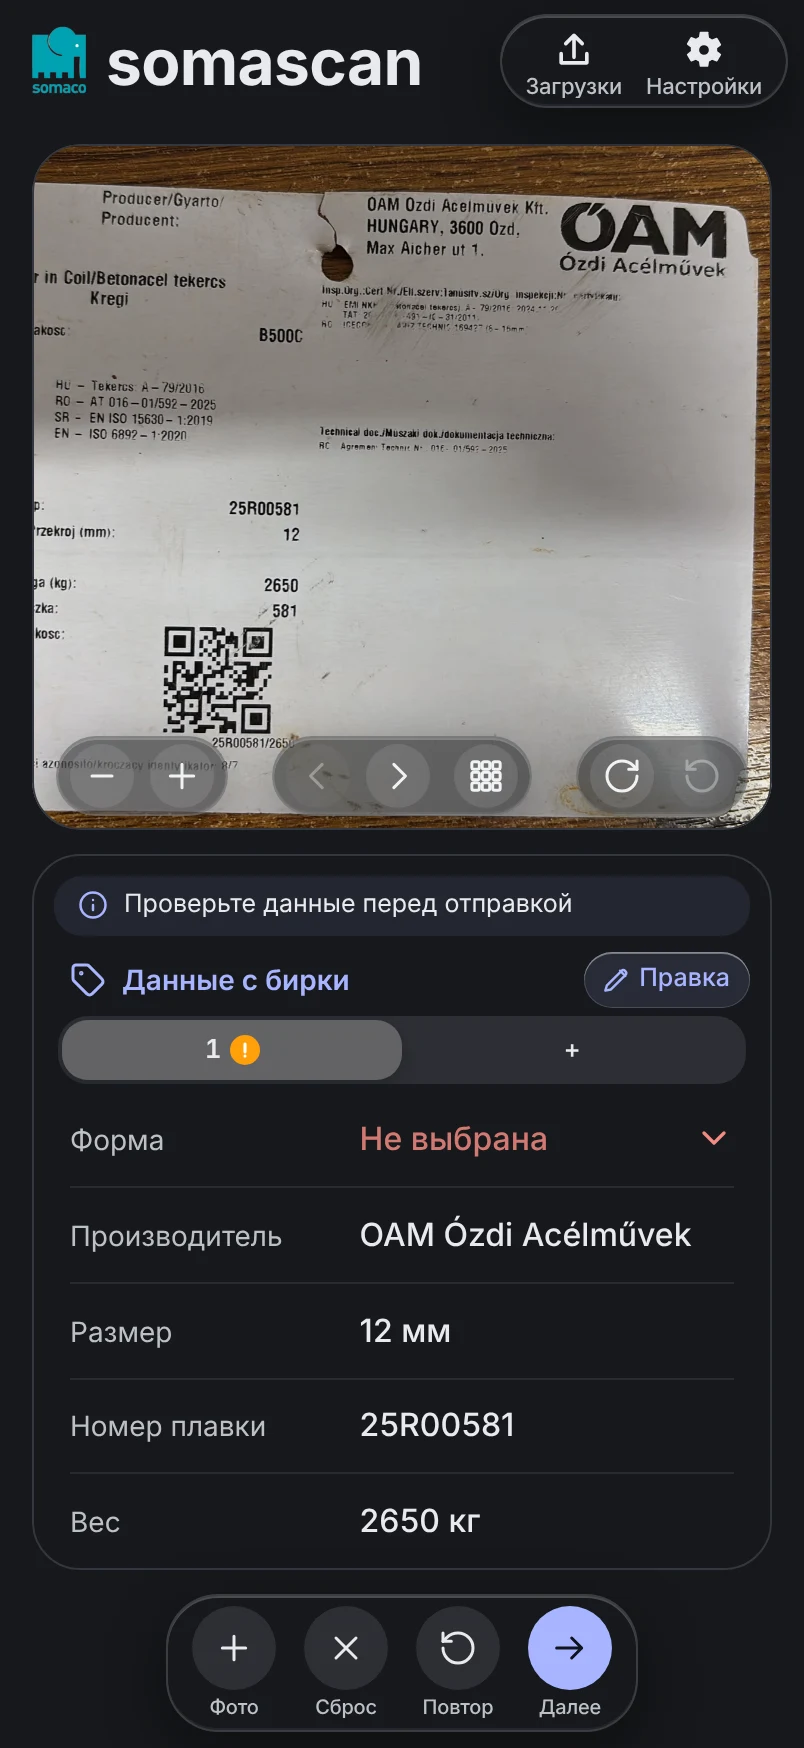
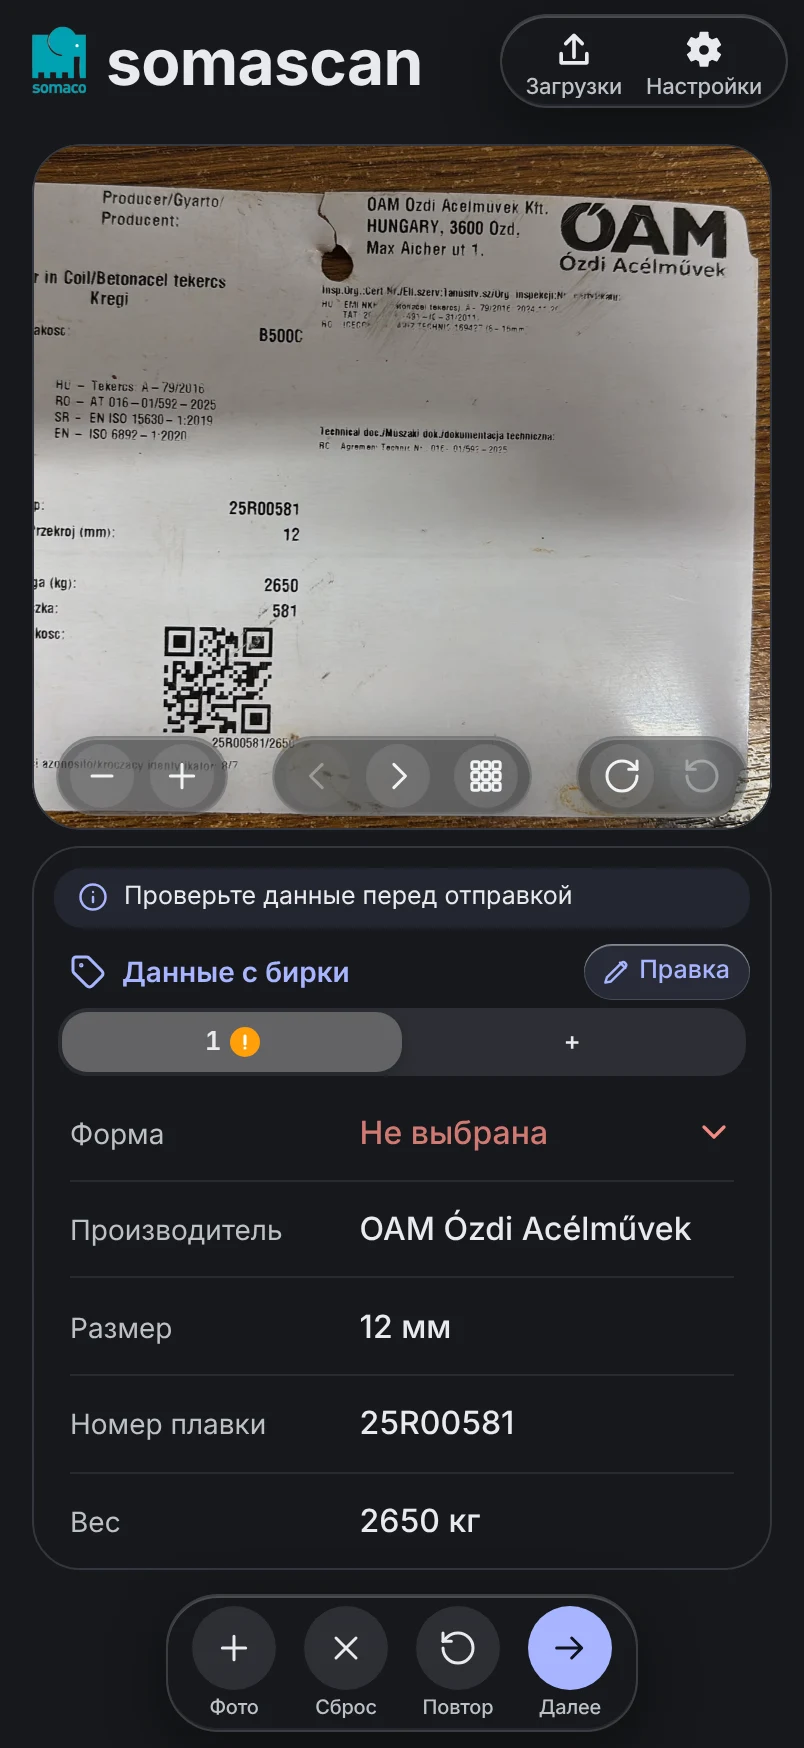
fix & feat: + Grid: switching to the grid no longer makes the screen scroll on a ~910 px tall phone — in view mode the field rows have 8 px padding instead of 11 (a single tag stretches them over the free space anyway) and the result card sits 8 px under the photo block instead of 12 + Grid: a neutr

diff --git a/src/features/workspace/components/PhotoGrid.css b/src/features/workspace/components/PhotoGrid.css
@@ -3,29 +3,23 @@
  * и недоступные ячейки (заполняются только по порядку).
  * Карточка анимирует переход между сеткой и одной биркой (transform от левого верхнего угла).
  *
- * Кольца: выбранная для отправки — тонкое акцентное внутри ячейки, открытая — тонкая бирюзовая обводка снаружи
- * со сдержанным свечением (у выбранной открытой — оба).
+ * Отметки нейтральные: выбранная для отправки — заполненная точка-переключатель и неприглушённая миниатюра, открытая —
+ * контрастная обводка цвета текста с тенью и такой же номер: сразу видно, на какой бирке стоишь.
  */
 
 .photo-grid {
   /*
-   * Ячейки крупные: промежутки между ними и поле у краёв карточки минимальные. Обводка открытой ячейки (2 px вплотную
-   * к ней) помещается в поле, свечение ложится поверх соседних ячеек.
+   * Ячейки крупные: промежутки между ними и поле у краёв карточки минимальные. Обводка открытой ячейки (2,5 px
+   * с зазором 1 px) помещается в поле.
    */
   --photo-grid-gap: 4px;
   /* Ячейки концентричны блоку фото: его скругление минус поле сетки (на iOS блок круглее — и ячейки тоже). */
   --photo-grid-radius: calc(var(--photo-radius) - var(--photo-grid-gap));
-  /* Обводка открытой бирки и рамки, которую ведёт палец (см. ниже): толщина и зазор от ячейки. */
-  --photo-grid-frame-width: 2px;
-  --photo-grid-frame-offset: 0px;
-  --photo-grid-frame-outline: var(--photo-grid-frame-width) solid var(--focus);
-  /*
-   * Свечение открытой ячейки — сдержанное: снаружи короткий приглушённый ореол сразу за обводкой (размах тени =
-   * зазор + толщина), внутри — лёгкая подсветка по краю миниатюры, так что ячейка отмечена и при узких промежутках.
-   */
-  --photo-grid-frame-glow-spread: calc(var(--photo-grid-frame-offset) + var(--photo-grid-frame-width));
-  --photo-grid-frame-glow: 0 0 8px var(--photo-grid-frame-glow-spread) color-mix(in srgb, var(--focus) 35%, transparent);
-  --photo-grid-frame-inner-glow: inset 0 0 6px color-mix(in srgb, var(--focus) 30%, transparent);
+  /* Обводка открытой бирки и рамки, которую ведёт палец (см. ниже): толщина, зазор от ячейки и тень, приподнимающая её. */
+  --photo-grid-frame-width: 2.5px;
+  --photo-grid-frame-offset: 1px;
+  --photo-grid-frame-outline: var(--photo-grid-frame-width) solid var(--text-h);
+  --photo-grid-frame-shadow: 0 4px 14px rgb(0 0 0 / 30%);
   /* Сколько рамка переноса переезжает с ячейки на ячейку. */
   --photo-grid-frame-move: 260ms;
   position: absolute;
@@ -138,34 +132,16 @@
   opacity: .45;
 }
 
-/* Кольца выбора и открытой бирки — поверх миниатюры, под значками. */
-.photo-grid-cell::after {
-  content: '';
-  position: absolute;
-  z-index: 3;
-  inset: 0;
-  border-radius: inherit;
-  pointer-events: none;
-  /* Кольцо выбранной (акцентное) и свечение открытой — внутри ячейки, поверх миниатюры. */
-  box-shadow: var(--photo-grid-cell-ring, 0 0 #0000), var(--photo-grid-cell-glow, 0 0 #0000);
-}
-
-.photo-grid-cell.is-selected {
-  --photo-grid-cell-ring: inset 0 0 0 2px color-mix(in srgb, var(--accent) 80%, transparent);
-}
-
 /*
- * Открытая бирка — фирменный бирюзовый (цвет логотипа): тонкая обводка снаружи ячейки и сдержанное свечение вокруг неё.
- * Не путается ни с акцентным кольцом выбранных (внутри ячейки),
- * ни с цветами состояний. Та же обводка — у рамки, которую ведёт палец (`.photo-grid-frame`).
+ * Открытая бирка — контрастная обводка цвета текста снаружи ячейки (в тёмной теме светлая, в светлой — тёмная)
+ * и тень под ней: ячейка приподнята над соседними. Не путается ни с акцентной точкой выбранных, ни с цветами
+ * состояний. Та же обводка — у рамки, которую ведёт палец (`.photo-grid-frame`).
  */
-/* Над кольцами соседних ячеек: свечение ложится и на них. */
 .photo-grid-cell.is-active {
-  --photo-grid-cell-glow: var(--photo-grid-frame-inner-glow);
   z-index: 4;
   outline: var(--photo-grid-frame-outline);
   outline-offset: var(--photo-grid-frame-offset);
-  box-shadow: var(--photo-grid-frame-glow);
+  box-shadow: var(--photo-grid-frame-shadow);
 }
 
 /*
@@ -181,7 +157,7 @@
   border-radius: var(--photo-grid-radius);
   outline: var(--photo-grid-frame-outline);
   outline-offset: var(--photo-grid-frame-offset);
-  box-shadow: var(--photo-grid-frame-glow), var(--photo-grid-frame-inner-glow);
+  box-shadow: var(--photo-grid-frame-shadow);
 }
 
 .photo-grid.is-dragging .photo-grid-frame {
@@ -189,19 +165,14 @@
 }
 
 .photo-grid.is-dragging .photo-grid-cell.is-active {
-  --photo-grid-cell-glow: 0 0 #0000;
   outline-color: transparent;
   box-shadow: none;
 }
 
 /*
- * Во время перехода между сеткой и одной биркой колец нет: увеличенные вместе с ячейкой втрое, они
- * выглядели бы толстой светящейся рамкой по краю карточки. После перехода кольца проявляются.
+ * Во время перехода между сеткой и одной биркой обводки нет: увеличенная вместе с ячейкой втрое, она
+ * выглядела бы толстой рамкой по краю карточки. После перехода обводка проявляется.
  */
-.photo-grid-cell::after {
-  transition: opacity 200ms ease;
-}
-
 .photo-grid-cell.is-active {
   transition: box-shadow 200ms ease;
 }
@@ -211,18 +182,13 @@
   transition: none;
 }
 
-.photo-card.is-zooming .photo-grid-cell::after {
-  opacity: 0;
-  transition: none;
-}
-
 .photo-card.is-zooming .photo-grid-cell.is-active {
   outline-color: transparent;
   box-shadow: none;
   transition: none;
 }
 
-/* Номер бирки — в левом верхнем углу: у выбранной акцентный, у открытой — бирюзовый. */
+/* Номер бирки — в левом верхнем углу: нейтральный, у открытой — цвета её обводки. */
 .photo-grid-number {
   position: absolute;
   z-index: 2;
@@ -242,14 +208,9 @@
   line-height: 1;
 }
 
-.photo-grid-cell.is-selected .photo-grid-number {
-  color: var(--on-accent);
-  background: var(--accent);
-}
-
 .photo-grid-cell.is-active .photo-grid-number {
-  color: var(--on-focus);
-  background: var(--focus);
+  color: var(--bg);
+  background: var(--text-h);
 }
 
 /* Распознаётся: миниатюра притушена, по центру — спиннер. */
@@ -451,18 +412,16 @@
   --ripple-color: var(--accent);
 }
 
-/* iOS: значки на миниатюрах — материал UIKit (iOS 18) или стекло с бликом (iOS 26+). */
-:root[data-platform='ios'] .photo-grid-cell:not(.is-selected, .is-active) .photo-grid-number {
-  -webkit-backdrop-filter: saturate(180%) blur(12px);
-  backdrop-filter: saturate(180%) blur(12px);
-}
-
 :root[data-platform='ios'][data-ios-design='glass'] .photo-grid {
   --photo-grid-radius: 16px;
 }
 
-:root[data-platform='ios'][data-ios-design='glass'] .photo-grid-cell:not(.is-selected, .is-active) .photo-grid-number {
-  background: rgb(30 32 38 / 38%);
+/*
+ * iOS 26+: номер на миниатюре — стеклянная плашка с бликом, без размытия: девять размытий GPU пересчитывал бы
+ * на каждом кадре движения сетки.
+ */
+:root[data-platform='ios'][data-ios-design='glass'] .photo-grid-cell:not(.is-active) .photo-grid-number {
+  background: rgb(30 32 38 / 55%);
   box-shadow: inset 0 0 0 .5px rgb(255 255 255 / 45%), inset 0 1px 0 rgb(255 255 255 / 40%);
 }
 

diff --git a/src/features/workspace/components/NotesCard.css b/src/features/workspace/components/NotesCard.css
@@ -226,9 +226,11 @@
   /*
    * Карточка тянется до панели внизу и не сжимается (прокручивается экран). Свободное место под полями делят
    * строки — поровну, как силуэты до фото (`useSkeletonFill`): под последним полем не остаётся пустой полосы.
+   * Отступ от блока фото меньше обычного: в сетке блок выше на полосу листания, и экран помещается без прокрутки.
    */
   :root:is([data-platform='ios'], [data-platform='android']) .scan-workspace:not(.is-text-editing) .notes-card {
     flex: 1 0 auto;
+    margin-top: 8px;
   }
 
   :root:is([data-platform='ios'], [data-platform='android']) .scan-workspace:not(.is-text-editing) :is(.label-fields, .notes-message) {
@@ -236,9 +238,14 @@
     overflow: visible;
   }
 
-  /* Под последним полем — тот же отступ, что у каждой строки, без поля списка снизу: короче «подбородок» карточки. */
+  /*
+   * Под последним полем — тот же отступ, что у каждой строки, без поля списка снизу: короче «подбородок» карточки.
+   * Отступ строки меньше обычного: у одной бирки строки и так делят свободное место, а в сетке (блок фото выше
+   * на полосу листания) поля помещаются на экран без прокрутки.
+   */
   :root:is([data-platform='ios'], [data-platform='android']) .scan-workspace:not(.is-text-editing) .label-fields {
     --label-fields-pad-bottom: 0px;
+    --label-field-pad: 8px;
   }
 
   :root:is([data-platform='ios'], [data-platform='android']) .scan-workspace:not(.is-text-editing) .label-fields:not(.is-skeleton) {

diff --git a/src/styles/platform-ios.css b/src/styles/platform-ios.css
@@ -351,7 +351,7 @@
  * Под открытыми «Настройками» стекло главного экрана не видно (оно под затемнением и окном) — не размываем его:
  * иначе GPU пересчитывал бы и его на каждом кадре движения окна. Стеклянная панель в шапке видна — она остаётся.
  */
-:root:has(.settings-backdrop) :is(.notes-actions, .action-button.is-overlay .action-button-icon, .retake-hint, .photo-grid-number) {
+:root:has(.settings-backdrop) :is(.notes-actions, .action-button.is-overlay .action-button-icon, .retake-hint) {
   -webkit-backdrop-filter: none;
   backdrop-filter: none;
 }

diff --git a/src/styles/tokens.css b/src/styles/tokens.css
@@ -35,9 +35,6 @@
   --warning: #f4b400;
   /* Требует внимания (оранжевый): у бирки не выбрана форма. */
   --attention: #e8710a;
-  /* Открытый элемент (фирменный бирюзовый, как у логотипа): открытая бирка в сетке. */
-  --focus: #00a1b3;
-  --on-focus: #fff;
   /* Баннер «нет сети». */
   --offline-text: #792d00;
   --offline-bg: #fff0e5;
@@ -110,8 +107,6 @@
   --success: #81c995;
   --warning: #fdd663;
   --attention: #fcad70;
-  --focus: #4fd5e3;
-  --on-focus: #00262b;
   --offline-text: #ffcf9f;
   --offline-bg: #462719;
   --photo-empty-plus-bg: #393b42;
